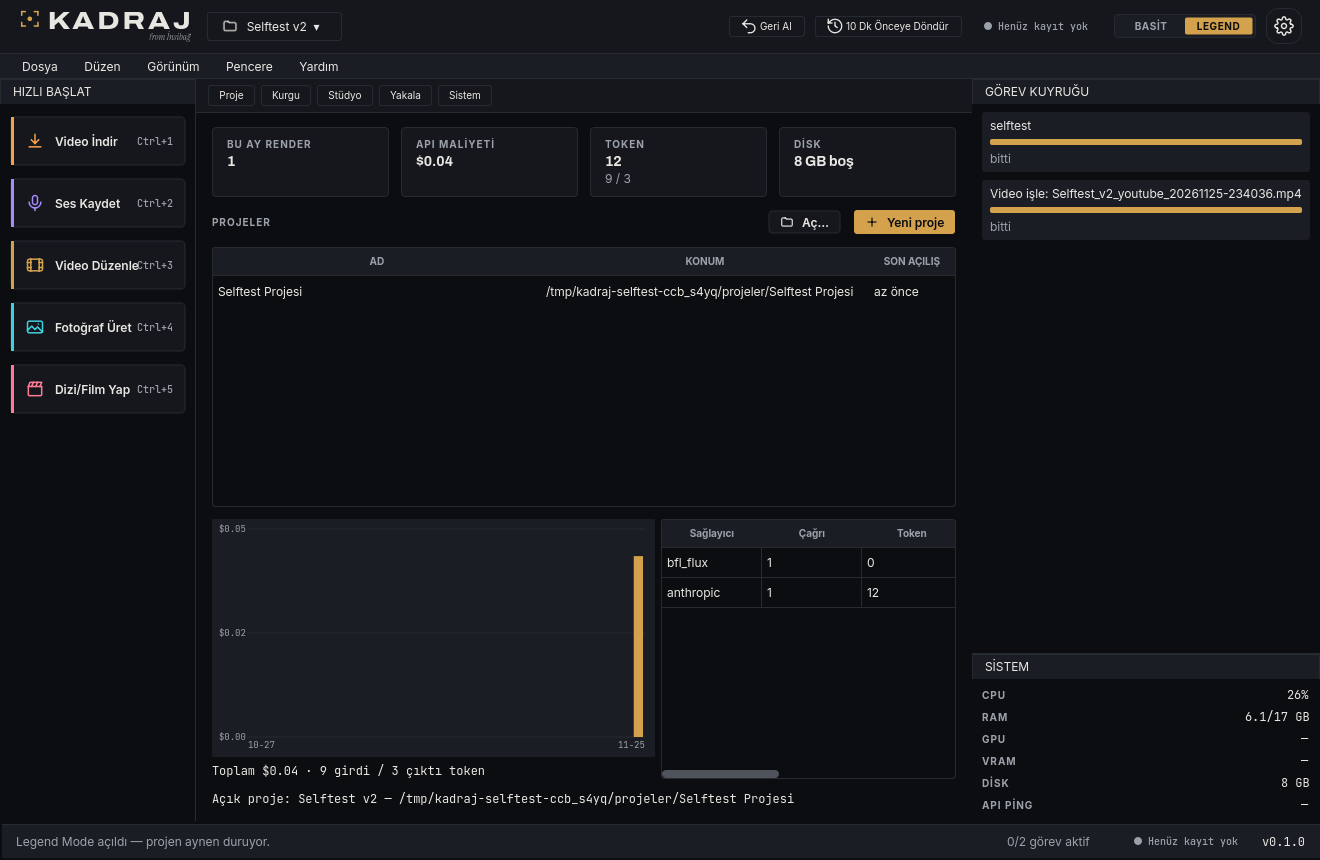
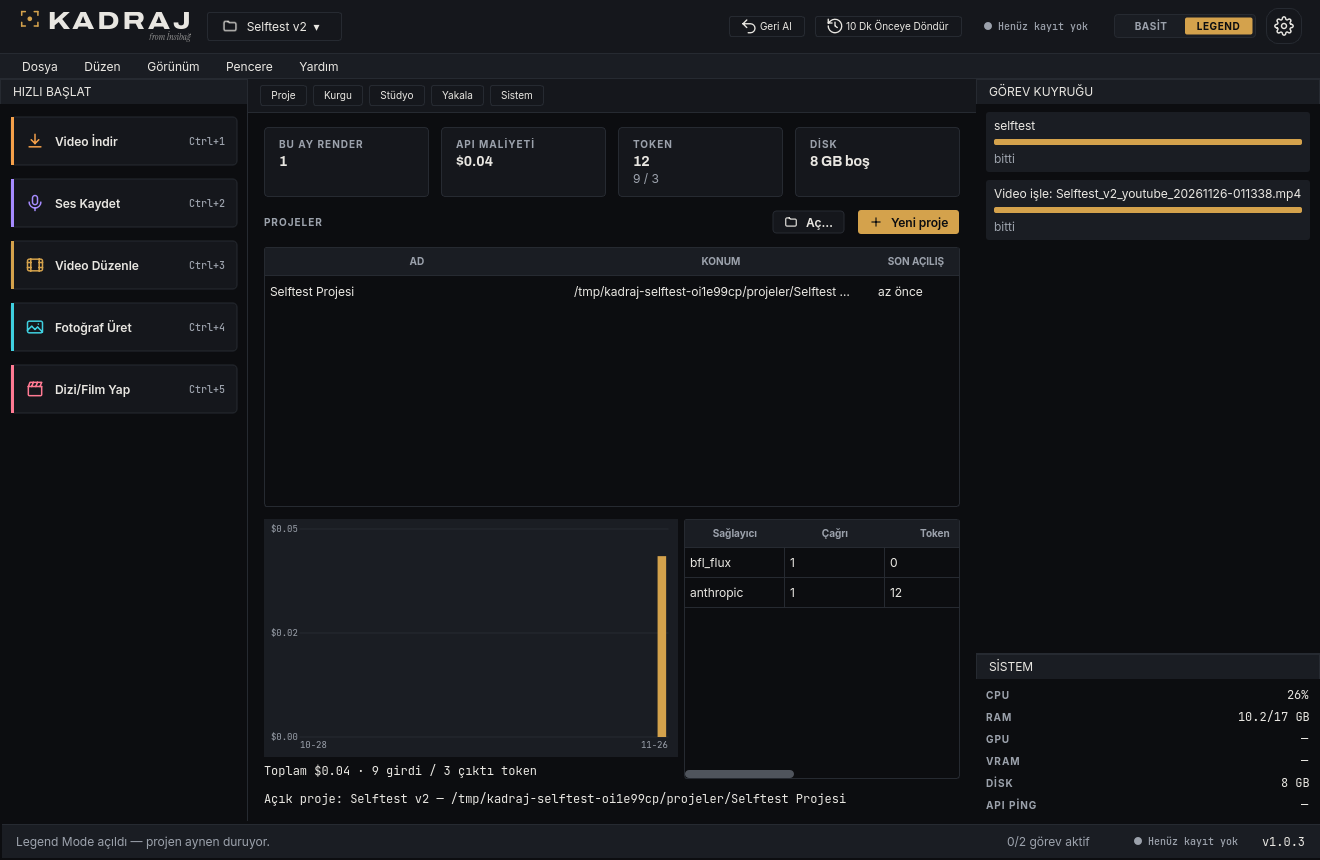
Sürüm 1.0.3: Legend etiket çakışması, Windows yolları, iş akışı
- Legend Hızlı Başlat: etiket ile kısayol (Ctrl+3) artık çakışmıyor; test eklendi
- Windows: sürükle-bırak yolları yerel biçimde; HOME/USERPROFILE test düzeltmesi
- release.yml: actions v7 (Node 24); etiket "v"+sürüm değilse derlemeden durur
- kadraj/version.py → 1.0.3; README dosya adları sürümden bağımsız
- v1.0.3 sürüm notu ve yeni ekran görüntüleri

diff --git a/kadraj/ui/widgets/task_card.py b/kadraj/ui/widgets/task_card.py
@@ -87,7 +87,8 @@ class TaskCard(ThemedMixin, QAbstractButton):
     def _on_theme(self) -> None:
         tk = self.tk
         self.setFixedHeight(tk.px(188) if not tk.is_legend else tk.px(56))
-        self.setMinimumWidth(tk.px(220) if not tk.is_legend else tk.px(180))
+        # Legend'de en uzun etiket ("Audio Capture") + kısayol sığsın diye 232 px (kırpma yalnız yedek).
+        self.setMinimumWidth(tk.px(220) if not tk.is_legend else tk.px(232))
 
     def sizeHint(self) -> QSize:
         return QSize(self.minimumWidth() + 40, self.height())
@@ -188,6 +189,30 @@ class TaskCard(ThemedMixin, QAbstractButton):
             p.drawText(r, Qt.AlignmentFlag.AlignCenter, label)
             x -= w + 8
 
+    LEGEND_TEXT_X = 44.0    # başlığın sol boşluğu (ikonun sağı)
+    LEGEND_PAD_R = 12.0     # kısayolun sağ boşluğu
+    LEGEND_GAP = 10.0       # başlık ile kısayol arasında en az boşluk
+
+    def _legend_text_edges(self, rect: QRectF) -> tuple[str, float, Optional[float]]:
+        """Legend satırında (gösterilecek başlık, başlığın sağ kenarı, kısayolun sol kenarı).
+        Başlık, kısayolun soluna en az ``LEGEND_GAP`` kalacak şekilde gerekirse kırpılır (…)."""
+        tk = self.tk
+        title_fm = QFontMetrics(fonts.qfont(tk.font_ui, tk.ui_px, weight=600))
+        x0 = rect.left() + self.LEGEND_TEXT_X
+        if not self._shortcut:
+            return self._title, x0 + title_fm.horizontalAdvance(self._title), None
+        mono_fm = QFontMetrics(fonts.qfont(tk.font_mono, tk.ui_px * 0.85, weight=500))
+        shortcut_left = rect.right() - self.LEGEND_PAD_R - mono_fm.horizontalAdvance(self._shortcut)
+        room = shortcut_left - self.LEGEND_GAP - x0
+        title = self._title
+        if title_fm.horizontalAdvance(title) > room:
+            title = title_fm.elidedText(title, Qt.TextElideMode.ElideRight, int(max(room, 0)))
+        return title, x0 + title_fm.horizontalAdvance(title), shortcut_left
+
+    def legend_label_edges(self) -> tuple[str, float, Optional[float]]:
+        """Ölçüm/test: çizimle aynı geometri (dikey kayma yatay kenarı etkilemez)."""
+        return self._legend_text_edges(QRectF(self.rect()).adjusted(3, 5, -3, -3))
+
     def _paint_legend(self, p: QPainter, rect: QRectF, acc) -> None:
         tk = self.tk
         path = QPainterPath()
@@ -199,15 +224,17 @@ class TaskCard(ThemedMixin, QAbstractButton):
         p.setBrush(QColor(acc.base))
         p.drawRect(QRectF(rect.left(), rect.top(), 3, rect.height()))
         draw_icon(p, QRectF(rect.left() + 14, rect.center().y() - 10, 20, 20), self._icon, acc.base, stroke=1.8)
+        title, _label_right, _shortcut_left = self._legend_text_edges(rect)
         p.setFont(fonts.qfont(tk.font_ui, tk.ui_px, weight=600))
         p.setPen(QColor(tk.text))
         fm = QFontMetrics(p.font())
-        p.drawText(QPointF(rect.left() + 44, rect.center().y() + (fm.ascent() - fm.descent()) / 2), self._title)
+        p.drawText(QPointF(rect.left() + self.LEGEND_TEXT_X, rect.center().y() + (fm.ascent() - fm.descent()) / 2),
+                   title)
         if self._shortcut:
             mf = fonts.qfont(tk.font_mono, tk.ui_px * 0.85, weight=500)
             p.setFont(mf)
             p.setPen(QColor(tk.text2))
-            p.drawText(QRectF(rect.left(), rect.top(), rect.width() - 12, rect.height()),
+            p.drawText(QRectF(rect.left(), rect.top(), rect.width() - self.LEGEND_PAD_R, rect.height()),
                        int(Qt.AlignmentFlag.AlignRight | Qt.AlignmentFlag.AlignVCenter), self._shortcut)
         if self.hasFocus():
             p.setBrush(Qt.BrushStyle.NoBrush)

diff --git a/tests/core/test_quickstart_layout.py b/tests/core/test_quickstart_layout.py
@@ -1,0 +1,24 @@
+"""Legend Hızlı Başlat: etiket ile kısayol hiçbir dilde ve hiçbir kartta üst üste binmez (offscreen ölçüm)."""
+from __future__ import annotations
+
+import pytest
+
+from kadraj.ui.shell.legend import QuickStartPanel
+
+
+@pytest.mark.parametrize("lang", ["tr", "en"])
+def test_legend_quickstart_label_never_overlaps_shortcut(ctx, qtbot, lang):
+    ctx.set_language(lang)
+    ctx.set_ui_mode("legend")
+    panel = QuickStartPanel(ctx)
+    qtbot.addWidget(panel)
+    checked = 0
+    for card in panel.cards:
+        card.resize(card.minimumWidth(), card.height())   # kenar çubuğunun verebileceği en dar genişlik
+        shown, label_right, shortcut_left = card.legend_label_edges()
+        if shortcut_left is None:
+            continue
+        checked += 1
+        assert label_right <= shortcut_left, f"{lang}: {card.title!r} etiketi kısayolla çakışıyor"
+        assert shown == card.title, f"{lang}: {card.title!r} etiketi kırpıldı (genişlik yetersiz)"
+    assert checked >= 5, "kısayollu kart sayısı beklenenden az"

diff --git a/tests/storage/test_folders.py b/tests/storage/test_folders.py
@@ -50,7 +50,8 @@ def test_ensure_is_idempotent_and_never_deletes(tmp_path):
 
 
 def test_ensure_root_creates_nested_and_expands_user(tmp_path, monkeypatch):
-    monkeypatch.setenv("HOME", str(tmp_path / "ev"))
+    monkeypatch.setenv("HOME", str(tmp_path / "ev"))             # Linux/macOS: expanduser HOME'a bakar
+    monkeypatch.setenv("USERPROFILE", str(tmp_path / "ev"))      # Windows: expanduser / Path.home() USERPROFILE'a bakar
     root = folders.ensure_root("~/Videos/Projeler")
     assert root == tmp_path / "ev" / "Videos" / "Projeler"
     assert root.is_dir()

diff --git a/kadraj/modules/editor/panels.py b/kadraj/modules/editor/panels.py
@@ -442,7 +442,7 @@ class LibraryPanel(QWidget):
     def dropEvent(self, e: QDropEvent) -> None:
         for u in e.mimeData().urls():
             if u.isLocalFile():
-                self.svc.add_media(u.toLocalFile())
+                self.svc.add_media(str(Path(u.toLocalFile())))      # Windows'ta "C:/x" → "C:\x"
         e.acceptProposedAction()
 
 

diff --git a/kadraj/version.py b/kadraj/version.py
@@ -1,2 +1,2 @@
 """Sürüm bilgisi (tek kaynak)."""
-__version__ = "0.1.0"
+__version__ = "1.0.3"

diff --git a/docs/release-notes/v1.0.3.md b/docs/release-notes/v1.0.3.md
@@ -1,0 +1,48 @@
+Sürüm 1.0.3. Legend "Hızlı Başlat" panelindeki etiket çakışması giderildi ve paket adları artık sürüm numarasını izliyor. KADRAJ ile video indirme, ses kaydı, video düzenleme, fotoğraf üretimi, dizi/film hazırlama ve ayarları tek uygulamada kullanabilirsiniz.
+
+### Değişiklikler
+
+- Legend "Hızlı Başlat" panelinde "Video Düzenle" gibi etiketler kısayol yazısının (Ctrl+3) üstüne biniyordu. Kartlar genişletildi; etiketler artık kısayolla çakışmıyor.
+- Windows'ta sürükle-bırak ile gelen dosya yolları Windows biçiminde işleniyor.
+- Paket dosya adları sürüm numarasını `kadraj/version.py` dosyasından alıyor. Önceki sürümün (1.0.2) paketleri yanlışlıkla 0.1.0 adıyla çıkmıştı; bu sürümde adlar 1.0.3.
+- Paketleme iş akışı (GitHub Actions) güncellendi.
+
+### Hangi dosyayı indirmeliyim?
+
+| Sistem | İndirilecek dosya |
+|---|---|
+| Linux (x86_64) | `KADRAJ-1.0.3-linux-x86_64.tar.gz` (yanındaki `.sha256` ile doğrulayabilirsiniz) |
+| Windows 10/11 (64 bit) | `KADRAJ-1.0.3-windows-x64-setup.exe` |
+| — | Sayfanın altındaki "Source code" bağlantıları GitHub'ın her sürüme otomatik eklediği ham kaynak koddur; kurulum için gerekmez. |
+
+### Kurulum
+
+**Linux**
+
+```bash
+tar -xzf KADRAJ-1.0.3-linux-x86_64.tar.gz
+cd KADRAJ-1.0.3-linux-x86_64
+./install.sh
+```
+
+Kısayol ve `kadraj` komutu eklenir; `sudo` gerekmez. Kaldırmak için `./uninstall.sh` çalıştırın. Verileriniz (`~/.kadraj`) silinmez.
+
+**Windows**
+
+1. `KADRAJ-1.0.3-windows-x64-setup.exe` dosyasına çift tıklayın. Yönetici izni gerekmez.
+2. "Bilgisayarınız korundu" uyarısı çıkarsa "Ek bilgi" → "Yine de çalıştır" seçin. Uyarı, dosyanın imzasız olmasından kaynaklanır.
+3. Kaldırmak için Ayarlar → Uygulamalar → KADRAJ → Kaldır. Verileriniz (`%USERPROFILE%\.kadraj`) korunur.
+
+### Gereksinimler
+
+- Linux: x86_64, glibc 2.34 veya üstü (Ubuntu 22.04+, Debian 12+, Fedora 35+, Arch / CachyOS); `ffmpeg`, `libportaudio2`, `libxcb-cursor0`
+- Windows: 10 veya 11, 64 bit; FFmpeg için `winget install Gyan.FFmpeg`
+
+### Bilinen sınırlar
+
+- Bulut yapay zekâ sağlayıcıları, Ollama ve ComfyUI gerçek hizmetlerde henüz sınanmadı.
+- Gerçek Whisper modeli, librosa, OpenCV ve rembg özellikleri henüz sınanmadı.
+- VAAPI ile video render ve Wayland ekran kaydı henüz gerçek donanımda sınanmadı.
+- Linux paketi Ubuntu 22.04 ve CachyOS üzerinde sınandı; Fedora, Debian ve Arch'ta henüz denenmedi.
+- Windows paketi GitHub Actions'ta derlenir. Paketlenmiş uygulamanın açılış sınaması (selftest) ve sessiz kurulum, çalıştırma ve kaldırma denemesi derlemenin kapısıdır. Gerçek bir Windows bilgisayarında henüz denenmedi.
+- macOS paketi henüz yok.

diff --git a/README.md b/README.md
@@ -29,8 +29,8 @@ Hangi dosyayı indireceğinizi aşağıdaki tablodan seçin. Dosyalar için [en 
 
 | Sistem | İndirilecek dosya |
 |---|---|
-| Linux (x86_64) | `KADRAJ-0.1.0-linux-x86_64.tar.gz` (yanındaki `.sha256` ile doğrulayabilirsiniz) |
-| Windows 10/11 (64 bit) | `KADRAJ-0.1.0-windows-x64-setup.exe` |
+| Linux (x86_64) | `KADRAJ-<sürüm>-linux-x86_64.tar.gz` (örneğin `KADRAJ-1.0.3-linux-x86_64.tar.gz`; yanındaki `.sha256` ile doğrulayabilirsiniz) |
+| Windows 10/11 (64 bit) | `KADRAJ-<sürüm>-windows-x64-setup.exe` (örneğin `KADRAJ-1.0.3-windows-x64-setup.exe`) |
 | — | Sürüm sayfasındaki "Source code (zip / tar.gz)" bağlantıları GitHub'ın her sürüme otomatik eklediği ham kaynak koddur; kurulum için gerekmez. |
 
 ### Linux
@@ -38,8 +38,8 @@ Hangi dosyayı indireceğinizi aşağıdaki tablodan seçin. Dosyalar için [en 
 1. Arşivi açın ve klasöre girin:
 
    ```bash
-   tar -xzf KADRAJ-0.1.0-linux-x86_64.tar.gz
-   cd KADRAJ-0.1.0-linux-x86_64
+   tar -xzf KADRAJ-*-linux-x86_64.tar.gz
+   cd KADRAJ-*-linux-x86_64
    ```
 
 2. Kurun:
@@ -54,7 +54,7 @@ Kaldırmak için paket klasöründe `./uninstall.sh` çalıştırın. Verilerini
 
 ### Windows
 
-1. `KADRAJ-0.1.0-windows-x64-setup.exe` dosyasına çift tıklayın. Yönetici izni gerekmez; uygulama kullanıcı klasörüne kurulur.
+1. `KADRAJ-<sürüm>-windows-x64-setup.exe` dosyasına çift tıklayın. Yönetici izni gerekmez; uygulama kullanıcı klasörüne kurulur.
 2. Windows "Bilgisayarınız korundu" (SmartScreen) uyarısı verirse "Ek bilgi" → "Yine de çalıştır" seçin. Bu uyarı, dosyanın dijital olarak imzalanmamış olmasından kaynaklanır.
 3. KADRAJ'ı Başlat menüsünden açın.
 4. Kaldırmak için Ayarlar → Uygulamalar → KADRAJ → Kaldır. Verileriniz (`%USERPROFILE%\.kadraj`) korunur.
@@ -65,7 +65,7 @@ Render ve dışa aktarma için FFmpeg gerekir. PowerShell'de:
 winget install Gyan.FFmpeg
 ```
 
-Sürüm 0.1.0'ın bilinen sınırları için [sürüm notlarına](docs/release-notes/v0.1.0.md) bakın.
+Her sürümün notları [Releases](https://github.com/UnrealWarlord/kadraj/releases) sayfasında ve `docs/release-notes/` içindedir.
 
 ## Sistem gereksinimleri
 
